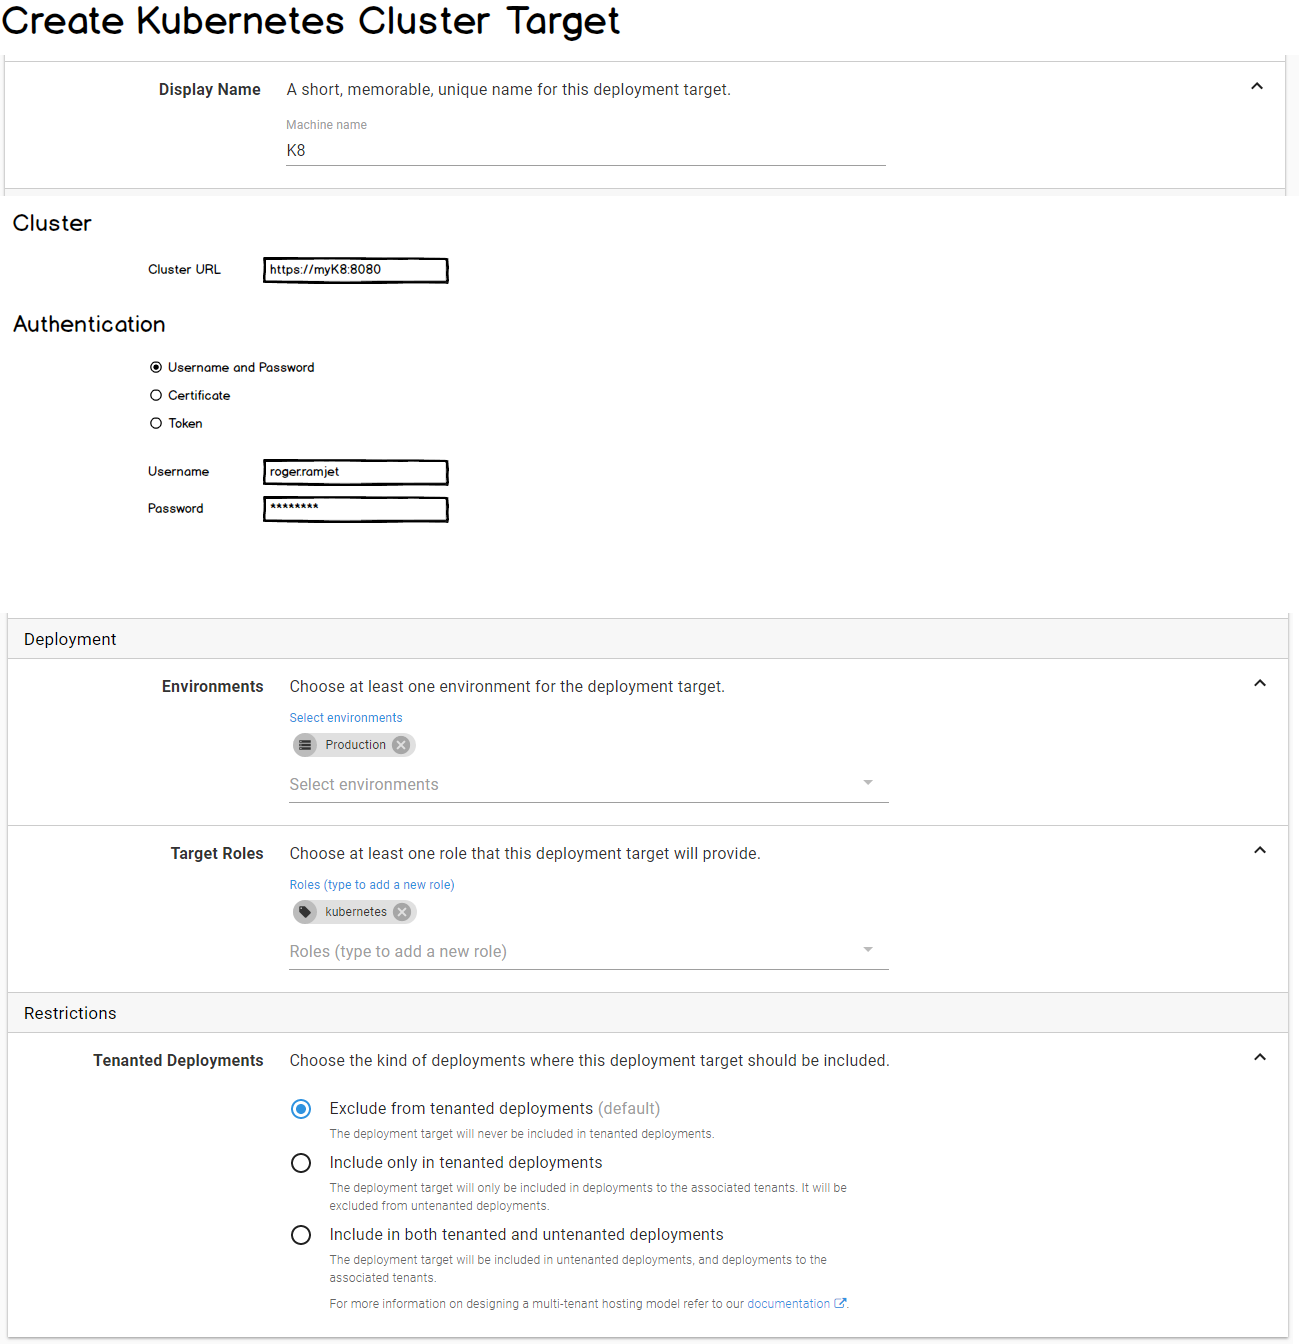
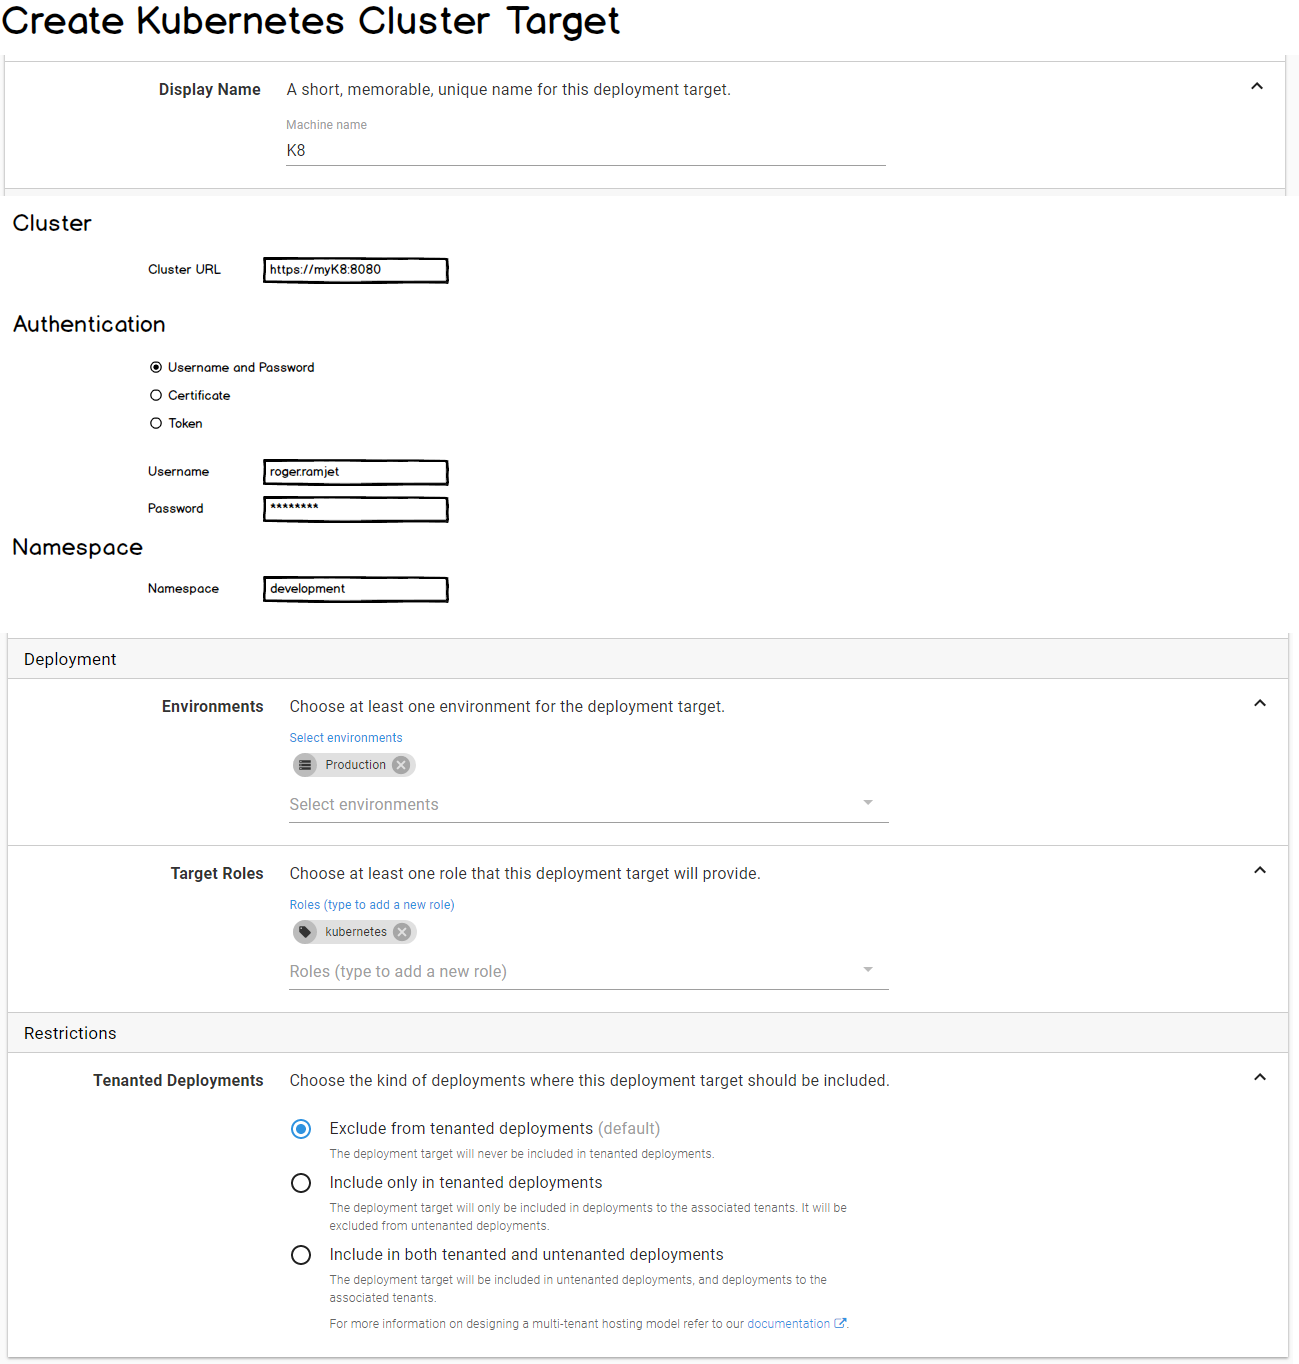
Added ability to specify namespace to kubernetes cluster

diff --git a/Kubernetes/index.md b/Kubernetes/index.md
@@ -21,6 +21,15 @@ We will support the authentication methods:
 
 ![Kubernetes Cluster Target](ui-mocks/kubernetes-cluster-target.png "width=500")
 
+### Namespace 
+
+The Kubernetes Cluster target will allow specifying a [namespace](https://kubernetes.io/docs/tasks/administer-cluster/namespaces/) (see mock-ui above). 
+
+This will support dividing a single Kubernetes cluster into multiple logical environments (this model will still require multiple targets to be created in Octopus). 
+
+The namespace configured will be written into the Kubernetes context established when connecting to the cluster.  
+
+
 ## Kubernetes Apply Step
 
 Kubernetes supports both [declarative and imperative modes of object management](https://kubernetes.io/docs/concepts/overview/object-management-kubectl/overview/#management-techniques).  
